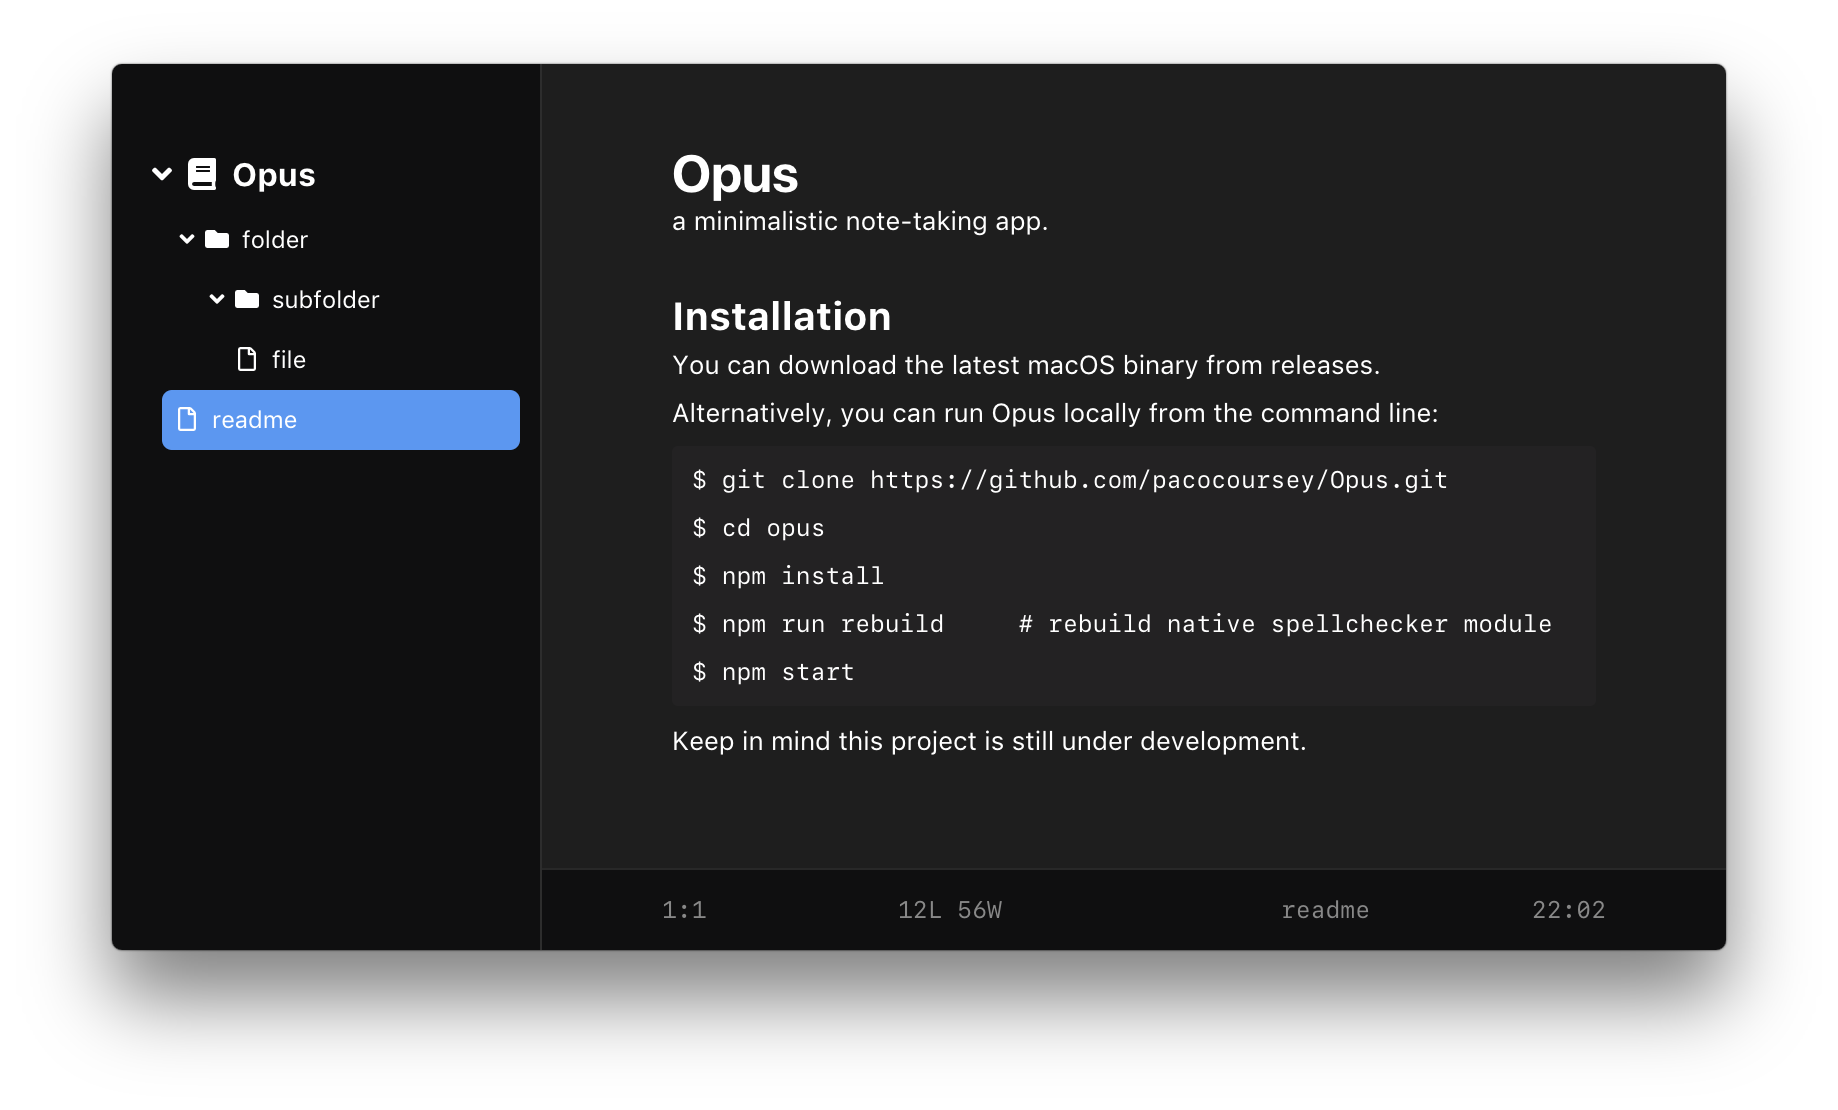
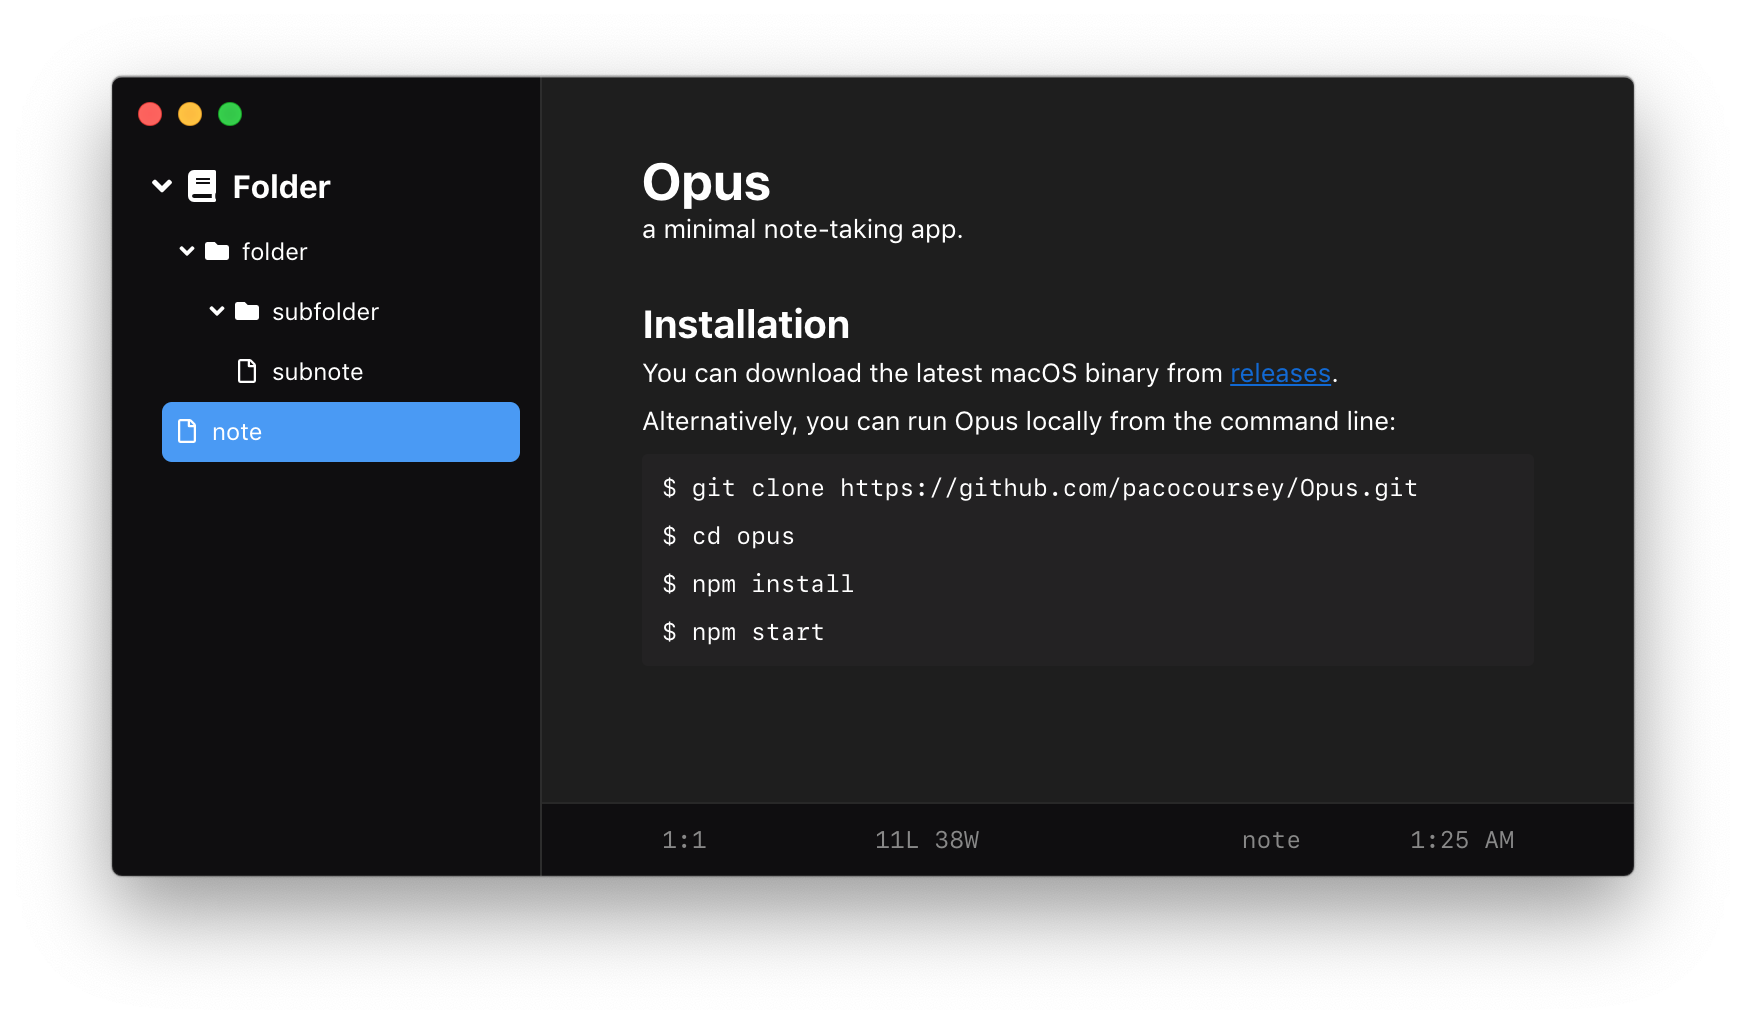
update screenshots, update readme

diff --git a/README.md b/README.md
@@ -19,8 +19,6 @@ $ npm install
 $ npm start
 ```
 
-Keep in mind this project is still under development.
-
 ![Opus Light Mode Screenshot](assets/screenshot-light.png)
 ![Opus Dark Mode Screenshot](assets/screenshot-dark.png)
 
